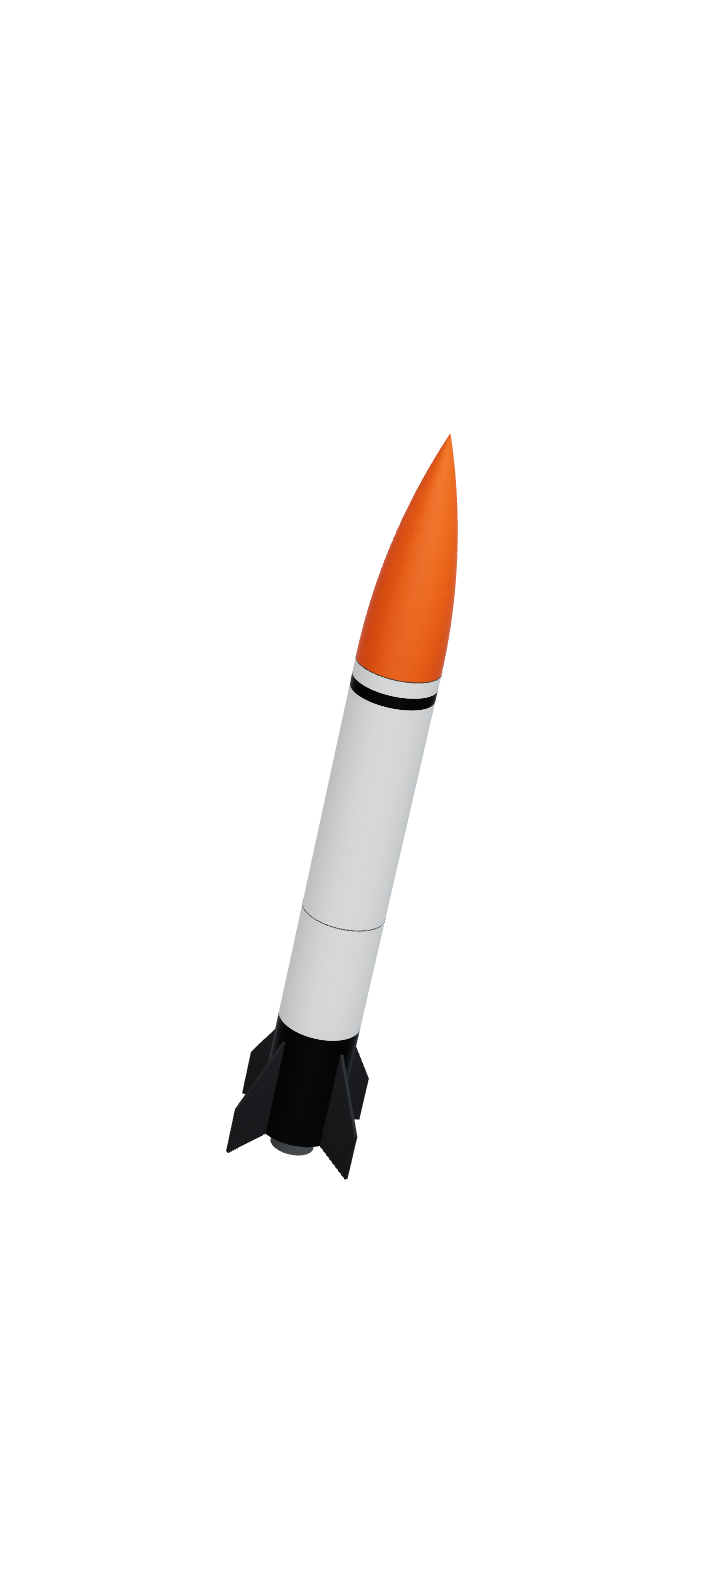
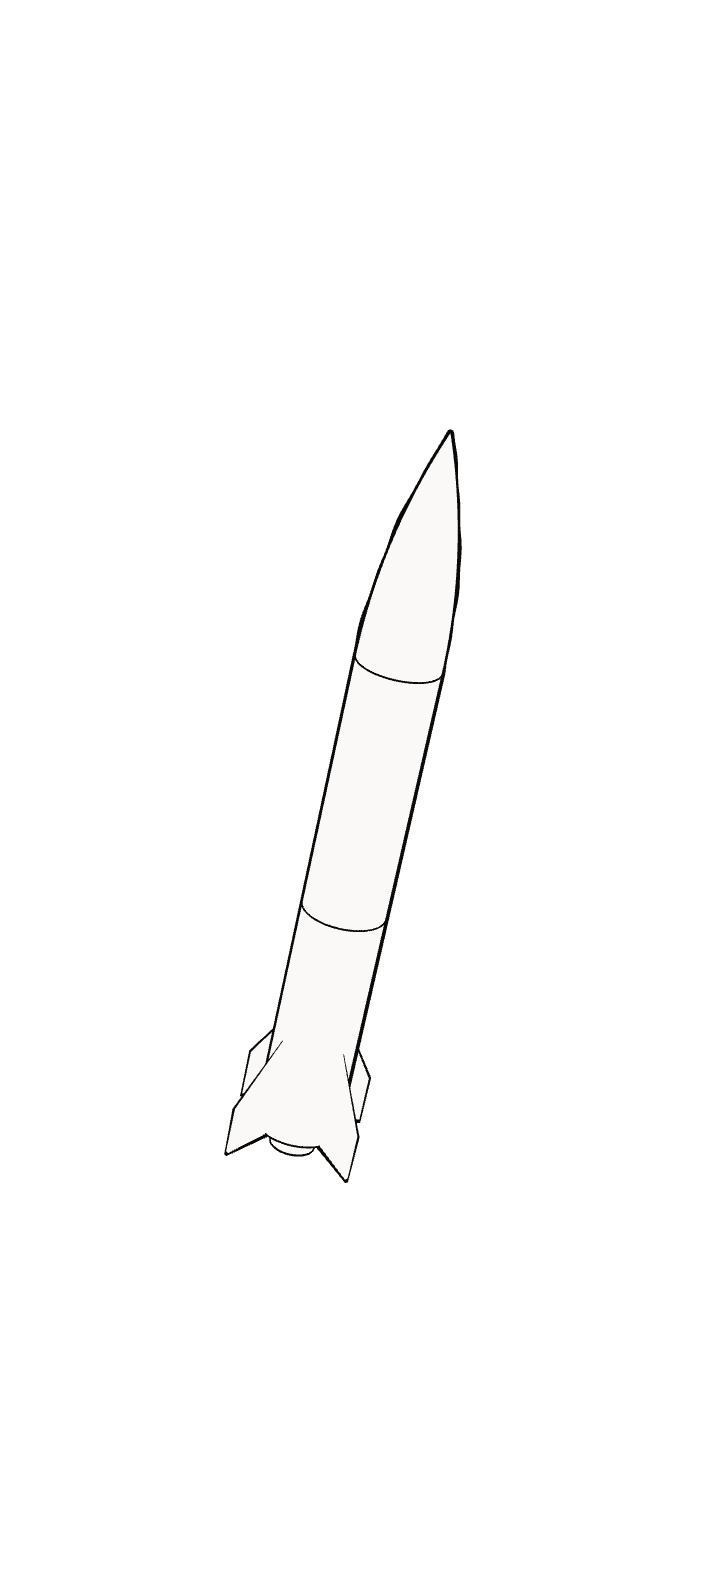
feat(landing): draw the placeholder rocket as a pen outline (#360)
Paper fill, unlit, and ink lines on the silhouette and hard edges: an
inverted hull pushed out in screen pixels with a fixed, uneven pen
weight, plus ink rims at the tail, body joint, nose shoulder and bell.
No livery, paint, shadows or weathering. Geometry and motion unchanged;
Cavour untouched. Re-rendered both placeholder stills.

Changed region(s): [[0.3056, 0.2494, 0.6417, 0.7481]]

diff --git a/components/landing/rocket-placeholder.tsx b/components/landing/rocket-placeholder.tsx
@@ -1,21 +1,15 @@
 "use client";
 
+import { useLayoutEffect, useMemo } from "react";
+import { useThree } from "@react-three/fiber";
 import * as THREE from "three";
+import { mergeVertices } from "three/examples/jsm/utils/BufferGeometryUtils.js";
+import { LineSegments2 } from "three/examples/jsm/lines/LineSegments2.js";
+import { LineSegmentsGeometry } from "three/examples/jsm/lines/LineSegmentsGeometry.js";
+import { LineMaterial } from "three/examples/jsm/lines/LineMaterial.js";
 import { brand } from "@/lib/brand-colors";
 import type { WeatherUniforms } from "./hero-weathering";
-import {
-  DEG,
-  FIN_THICKNESS_OF_SPAN,
-  finGeometry,
-  hullMaterials,
-  lathe,
-  nozzleGeometry,
-  ogive,
-  paintMaterial,
-  useCanvasWeather,
-  weatherFor,
-  type HullMaterials,
-} from "./rocket-parts";
+import { DEG, FIN_THICKNESS_OF_SPAN, finGeometry, lathe, nozzleGeometry, ogive } from "./rocket-parts";
 
 // The placeholder rocket: one generic vehicle every project draws until its
 // own model is written in code (issue #296). It is no real vehicle, so no
@@ -25,8 +19,10 @@ import {
 // by the holder at the bottom. It carries no name, flag or logo, because it
 // stands in for any project.
 //
-// Its look is the owner's call on the preview: a paper hull with a signal
-// orange nose and an ink band at the tail, from the brand colours.
+// Its look is a pen drawing, so it reads as "model coming" and not as a
+// vehicle the team built (issue #360): a flat, unlit paper fill and ink
+// lines on the silhouette and the hard edges, with no paint, shading or
+// weathering. Only Cavour's shapes are shared; its materials are not used.
 
 const R = 0.05; // body radius, as Cavour
 const NOSE_START = 0.62; // where the body tube ends
@@ -44,95 +40,199 @@ const FIN_OUTLINE: [number, number][] = [
 ];
 const FIN_THICKNESS = FIN_THICKNESS_OF_SPAN * 0.1675;
 
-const SEAM_Y = [0.3, NOSE_START]; // the body joint and the nose shoulder
-const SEAM_R = 0.0504;
-const SEAM_H = 0.0009;
-
-// The livery, as axial bands from the tail: ink up to the fins' leading edge,
-// paper to the nose shoulder, a thin ink ring, then the orange nose.
-const BANDS: { to: number; color: string }[] = [
-  { to: 0.15, color: brand.ground },
-  { to: 0.585, color: brand.text },
-  { to: 0.6, color: brand.ground },
-  { to: NOSE_START, color: brand.text },
-  { to: TIP, color: brand.accent },
+// The round hard edges, inked as rings a hair outside the skin: the tail
+// rim, the body joint, the nose shoulder and the bell's mouth.
+const RIMS: { y: number; r: number }[] = [
+  { y: 0, r: 0.0504 },
+  { y: 0.3, r: 0.0504 },
+  { y: NOSE_START, r: 0.0504 },
+  { y: -0.027, r: 0.0272 },
 ];
 
 // The bell's mouth is the lowest point: y = -0.027 (nozzleGeometry).
 const BBOX_MIN = -0.027;
 const BBOX_LEN = TIP - BBOX_MIN;
 
-// The bands drawn into a canvas on the hull's UV rule (v = 1 − y/TIP, nose at
-// the top of the image), so the wrap needs no file.
-function liveryTexture(): THREE.CanvasTexture {
-  const W = 8;
-  const H = 1024;
-  const canvas = document.createElement("canvas");
-  canvas.width = W;
-  canvas.height = H;
-  const ctx = canvas.getContext("2d")!;
-  let from = 0;
-  for (const band of BANDS) {
-    const top = Math.round((1 - band.to / TIP) * H);
-    const bottom = Math.round((1 - from / TIP) * H);
-    ctx.fillStyle = band.color;
-    ctx.fillRect(0, top, W, bottom - top);
-    from = band.to;
+// Line weights in CSS pixels, the same at any canvas size. The silhouette
+// swells and thins along the hull (pen() in OUTLINE_VERTEX), like a pen
+// stroke; the rims are a finer pen.
+const OUTLINE_PX = 2.6;
+const RIM_PX = 1.4;
+
+// The paper the drawing is filled with and the ink it is drawn in.
+const PAPER = brand.text;
+const INK = brand.ground;
+
+// The outline is an inverted hull: each part's back faces, pushed out along
+// their normals by a width in screen pixels, so it shows only where it
+// clears the part, at its silhouette. The width follows a fixed wobble of
+// the part's own position, so the stroke is uneven but holds still: nothing
+// changes per frame, and a card at rest still draws no frames.
+const OUTLINE_VERTEX = /* glsl */ `
+  uniform vec2 uResolution;
+  uniform float uWidth;
+  float pen(vec3 p) {
+    return 0.86
+      + 0.20 * sin(dot(p, vec3(29.0, 43.0, 31.0)))
+      + 0.12 * sin(dot(p, vec3(-67.0, 109.0, 53.0)) + 1.7);
   }
-  const tex = new THREE.CanvasTexture(canvas);
-  tex.flipY = false;
-  tex.colorSpace = THREE.SRGBColorSpace;
-  tex.anisotropy = 8;
-  return tex;
+  void main() {
+    vec4 clip = projectionMatrix * modelViewMatrix * vec4(position, 1.0);
+    vec2 dir = (projectionMatrix * vec4(normalMatrix * normal, 0.0)).xy * uResolution;
+    float len = length(dir);
+    if (len > 1e-6) {
+      clip.xy += (dir / len) * uWidth * pen(position) * 2.0 / uResolution * clip.w;
+    }
+    gl_Position = clip;
+  }
+`;
+const OUTLINE_FRAGMENT = /* glsl */ `
+  uniform vec3 uInk;
+  void main() {
+    gl_FragColor = vec4(uInk, 1.0);
+    #include <colorspace_fragment>
+  }
+`;
+
+// The fin's hull. A plate's own normals point square off each face, so a
+// hull pushed along them splits at the edges, and averaged normals lean
+// almost all the way to the broad faces. Instead every corner is pushed
+// straight out from the plate's middle, in its plane (the outline lies in xy,
+// extruded along z), so the hull rims the plate's outline evenly.
+function plateHull(g: THREE.BufferGeometry, outline: [number, number][]): THREE.BufferGeometry {
+  const plain = g.clone();
+  plain.deleteAttribute("normal");
+  plain.deleteAttribute("uv");
+  const out = mergeVertices(plain, 1e-6);
+  const cx = outline.reduce((s, [x]) => s + x, 0) / outline.length;
+  const cy = outline.reduce((s, [, y]) => s + y, 0) / outline.length;
+  const pos = out.getAttribute("position");
+  const nor: number[] = [];
+  for (let i = 0; i < pos.count; i++) {
+    const dx = pos.getX(i) - cx;
+    const dy = pos.getY(i) - cy;
+    const len = Math.hypot(dx, dy) || 1;
+    nor.push(dx / len, dy / len, 0);
+  }
+  out.setAttribute("normal", new THREE.Float32BufferAttribute(nor, 3));
+  return out;
+}
+
+/** A unit ring around the hull axis at y = 0, as line segments. */
+function unitRing(segments: number): LineSegmentsGeometry {
+  const pts: number[] = [];
+  for (let i = 0; i < segments; i++) {
+    const a = (i / segments) * Math.PI * 2;
+    const b = ((i + 1) / segments) * Math.PI * 2;
+    pts.push(Math.cos(a), 0, Math.sin(a), Math.cos(b), 0, Math.sin(b));
+  }
+  return new LineSegmentsGeometry().setPositions(pts);
 }
 
 function buildGeometry() {
   const body: [number, number][] = [[0, R], ...ogive(NOSE_START, NOSE_LENGTH, R, 48)];
+  const fin = finGeometry(FIN_OUTLINE, FIN_THICKNESS);
   return {
     body: lathe(body, 128, TIP),
-    seam: lathe([[-SEAM_H / 2, SEAM_R], [SEAM_H / 2, SEAM_R]], 96, TIP),
     ...nozzleGeometry(TIP),
     tail: new THREE.CircleGeometry(R, 96),
-    fin: finGeometry(FIN_OUTLINE, FIN_THICKNESS),
+    fin,
+    finHull: plateHull(fin, FIN_OUTLINE),
+    rim: unitRing(96),
   };
 }
 
-// Built once per page, not once per canvas, as Cavour's parts are.
-let shared: { geo: ReturnType<typeof buildGeometry>; mats: HullMaterials & { livery: THREE.Material } } | null =
-  null;
+// Built once per page, not once per canvas, as Cavour's parts are. The fill
+// and the ink are unlit and skip tone mapping, so they land exactly on the
+// brand colours.
+let shared: {
+  geo: ReturnType<typeof buildGeometry>;
+  paper: THREE.MeshBasicMaterial;
+  ink: THREE.MeshBasicMaterial;
+} | null = null;
 function placeholderParts() {
   return (shared ??= {
     geo: buildGeometry(),
-    mats: { livery: paintMaterial(liveryTexture(), 0.6, false, weatherFor), ...hullMaterials(weatherFor) },
+    paper: new THREE.MeshBasicMaterial({ color: PAPER, toneMapped: false }),
+    ink: new THREE.MeshBasicMaterial({ color: INK, toneMapped: false, side: THREE.DoubleSide }),
   });
 }
 
-export default function PlaceholderBuilt({ weather, length }: { weather: WeatherUniforms; length: number }) {
-  const { geo, mats } = placeholderParts();
-  useCanvasWeather(weather);
+// The line materials carry their canvas's size, so each canvas has its own.
+function useLines() {
+  const width = useThree((s) => s.size.width);
+  const height = useThree((s) => s.size.height);
+  const invalidate = useThree((s) => s.invalidate);
+  const lines = useMemo(
+    () => ({
+      outline: new THREE.ShaderMaterial({
+        uniforms: {
+          uResolution: { value: new THREE.Vector2(1, 1) },
+          uWidth: { value: OUTLINE_PX },
+          uInk: { value: new THREE.Color(INK) },
+        },
+        vertexShader: OUTLINE_VERTEX,
+        fragmentShader: OUTLINE_FRAGMENT,
+        side: THREE.BackSide,
+        toneMapped: false,
+      }),
+      rim: new LineMaterial({ color: INK, linewidth: RIM_PX, toneMapped: false }),
+    }),
+    [],
+  );
+  useLayoutEffect(() => {
+    lines.outline.uniforms.uResolution.value.set(width, height);
+    lines.rim.resolution.set(width, height);
+    invalidate();
+  }, [lines, width, height, invalidate]);
+  useLayoutEffect(
+    () => () => {
+      lines.outline.dispose();
+      lines.rim.dispose();
+    },
+    [lines],
+  );
+  return lines;
+}
+
+export default function PlaceholderBuilt({ length }: { weather: WeatherUniforms; length: number }) {
+  const { geo, paper, ink } = placeholderParts();
+  const lines = useLines();
+  // Line widths are in pixels, so scaling a ring changes its radius only.
+  const rims = useMemo(
+    () =>
+      RIMS.map(({ y, r }) => {
+        const line = new LineSegments2(geo.rim, lines.rim);
+        line.position.y = y;
+        line.scale.setScalar(r);
+        return line;
+      }),
+    [geo, lines],
+  );
 
   const scale = length / BBOX_LEN;
-  const shadow = { castShadow: true, receiveShadow: true };
+  // Each part twice: its paper fill, then its ink hull.
+  const part = (key: string, fill: THREE.BufferGeometry, hull: THREE.BufferGeometry = fill) => [
+    <mesh key={`${key}-fill`} geometry={fill} material={paper} />,
+    <mesh key={`${key}-ink`} geometry={hull} material={lines.outline} />,
+  ];
   return (
     <group rotation-z={-Math.PI / 2} scale={scale}>
       <group position-y={-(BBOX_MIN + BBOX_LEN / 2)}>
-        <mesh geometry={geo.body} material={mats.livery} {...shadow} />
+        {part("body", geo.body)}
         {/* tail bulkhead so the tube never reads hollow */}
-        <mesh geometry={geo.tail} rotation-x={Math.PI / 2} material={mats.seam} position-y={0.0005} />
-        {SEAM_Y.map((y) => (
-          <mesh key={y} geometry={geo.seam} material={mats.seam} position-y={y} />
+        <mesh geometry={geo.tail} rotation-x={Math.PI / 2} material={paper} position-y={0.0005} />
+        {rims.map((line) => (
+          <primitive key={line.position.y} object={line} />
         ))}
-        <mesh geometry={geo.ring} material={mats.aluminium} {...shadow} />
-        <mesh geometry={geo.throat} material={mats.seam} />
-        <mesh geometry={geo.bell} material={mats.titanium} {...shadow} />
+        {part("ring", geo.ring)}
+        {/* the throat is a hole, so it is inked solid, as a pen drawing fills one */}
+        <mesh geometry={geo.throat} material={ink} />
+        {part("bell", geo.bell)}
         {[0, 1, 2, 3].map((k) => (
-          <mesh
-            key={k}
-            geometry={geo.fin}
-            material={mats.aluminium}
-            rotation-y={(45 + 90 * k) * DEG}
-            {...shadow}
-          />
+          <group key={k} rotation-y={(45 + 90 * k) * DEG}>
+            {part("fin", geo.fin, geo.finHull)}
+          </group>
         ))}
       </group>
     </group>
